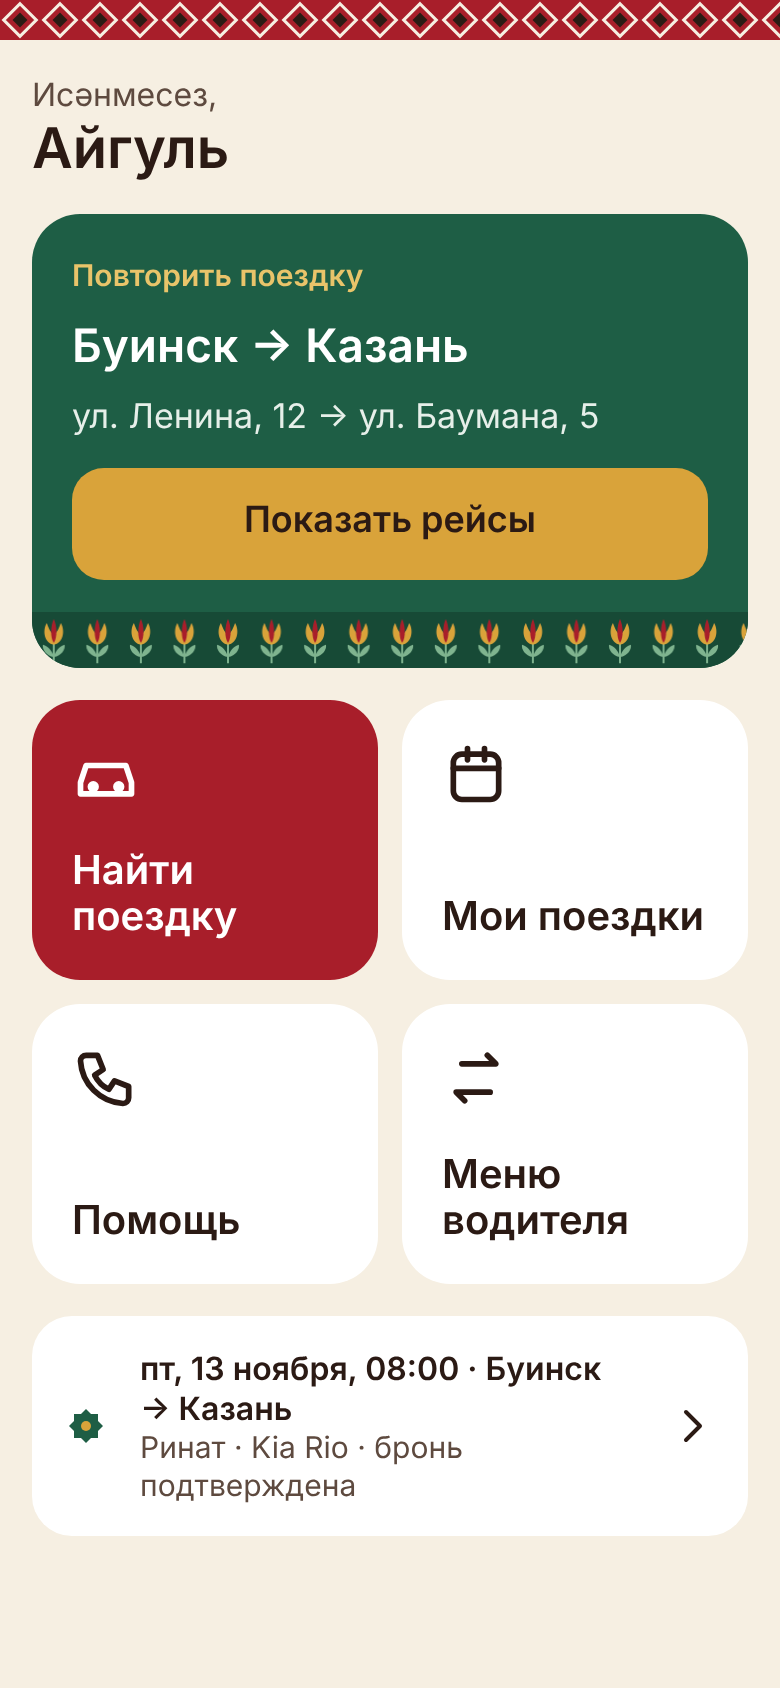
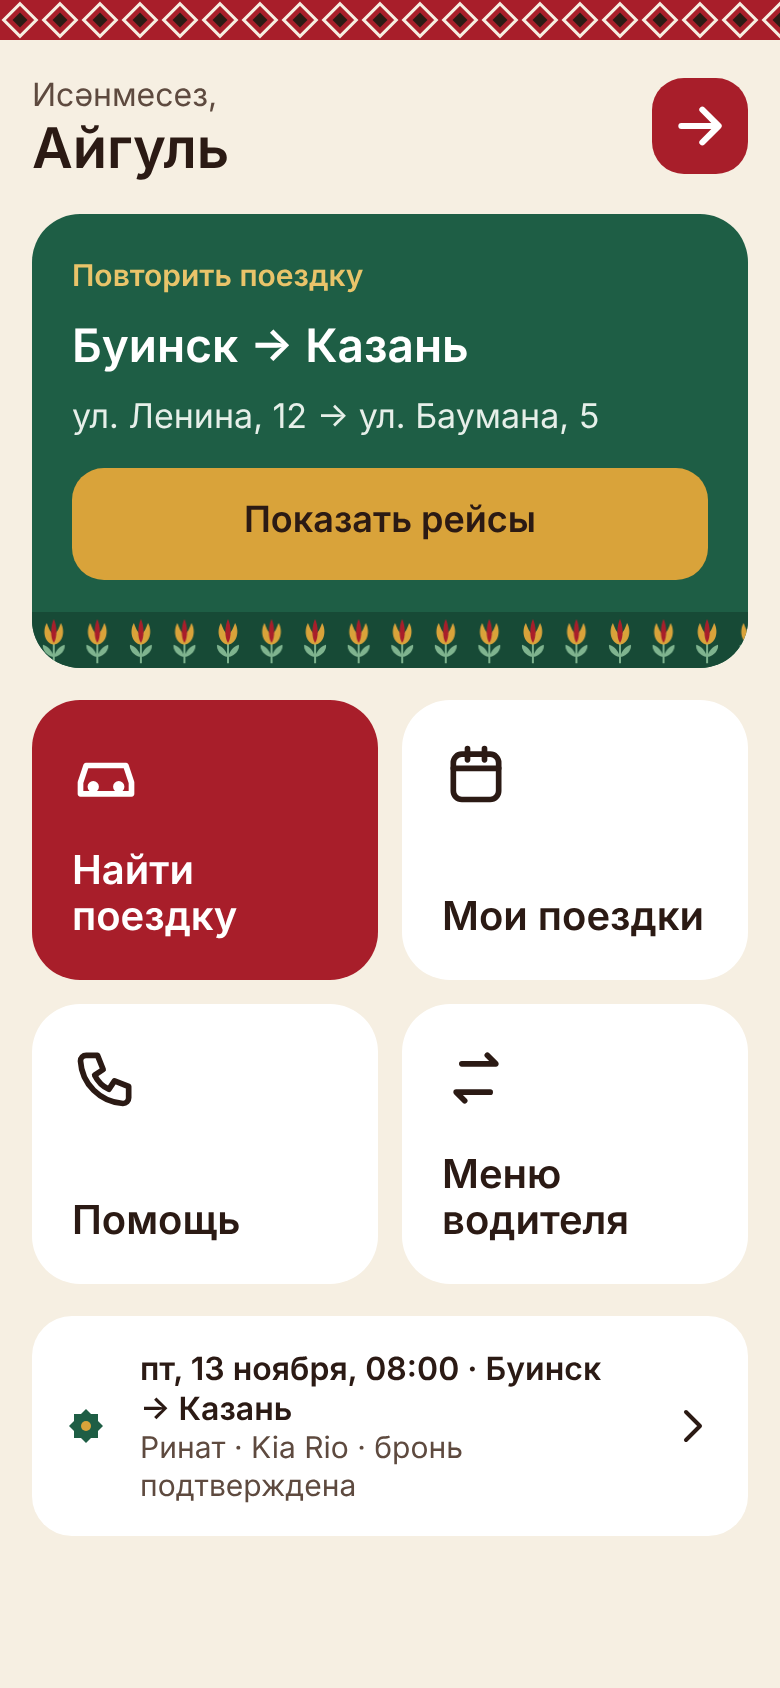
Mini App: вернули логотип (красный квадрат со стрелкой) на главной
Claude-Session: https://claude.ai/code/session_01TRVAmdotLaFEvhUbHCdz42

Changed region(s): [[0.8308, 0.0308, 0.9846, 0.1232]]

diff --git a/miniapp/src/app.css b/miniapp/src/app.css
@@ -202,6 +202,7 @@ textarea.input { height: 96px; padding: 12px 16px; resize: none; line-height: 1.
 .hello { display: flex; align-items: center; justify-content: space-between; }
 .hello__hi { font-size: 16px; color: var(--c-ink-muted); }
 .hello__name { font-size: 28px; font-weight: 600; line-height: 1.15; }
+.logo-square { width: 48px; height: 48px; border-radius: var(--r-icon); background: var(--c-red); display: flex; align-items: center; justify-content: center; flex-shrink: 0; }
 .welcome { background: var(--c-green); color: #FFFFFF; padding: 28px var(--sp-5) 0; display: flex; flex-direction: column; gap: 20px; }
 .welcome__hi { font-size: 30px; font-weight: 600; line-height: 1.12; }
 .welcome__band { margin: 0 calc(-1 * var(--sp-5)); }

diff --git a/miniapp/src/screens/Passenger.tsx b/miniapp/src/screens/Passenger.tsx
@@ -52,6 +52,9 @@ export function Home() {
           <div className="hello__hi">Исәнмесез,</div>
           <div className="hello__name">{me.user!.name}</div>
         </div>
+        <div className="logo-square" aria-hidden="true">
+          <span style={{ color: '#FFFFFF', display: 'flex' }}><Icon name="arrow" size={28} stroke={2.6} /></span>
+        </div>
       </div>
 
       {last?.from && last.to && (
